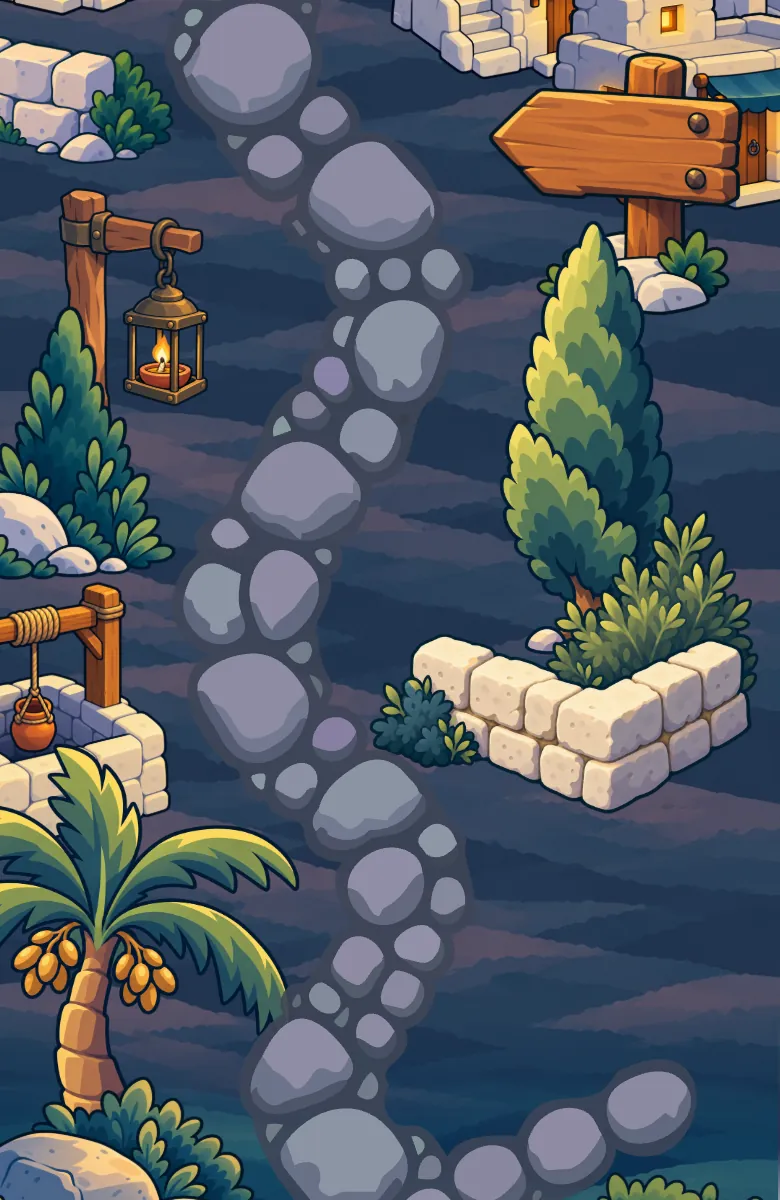
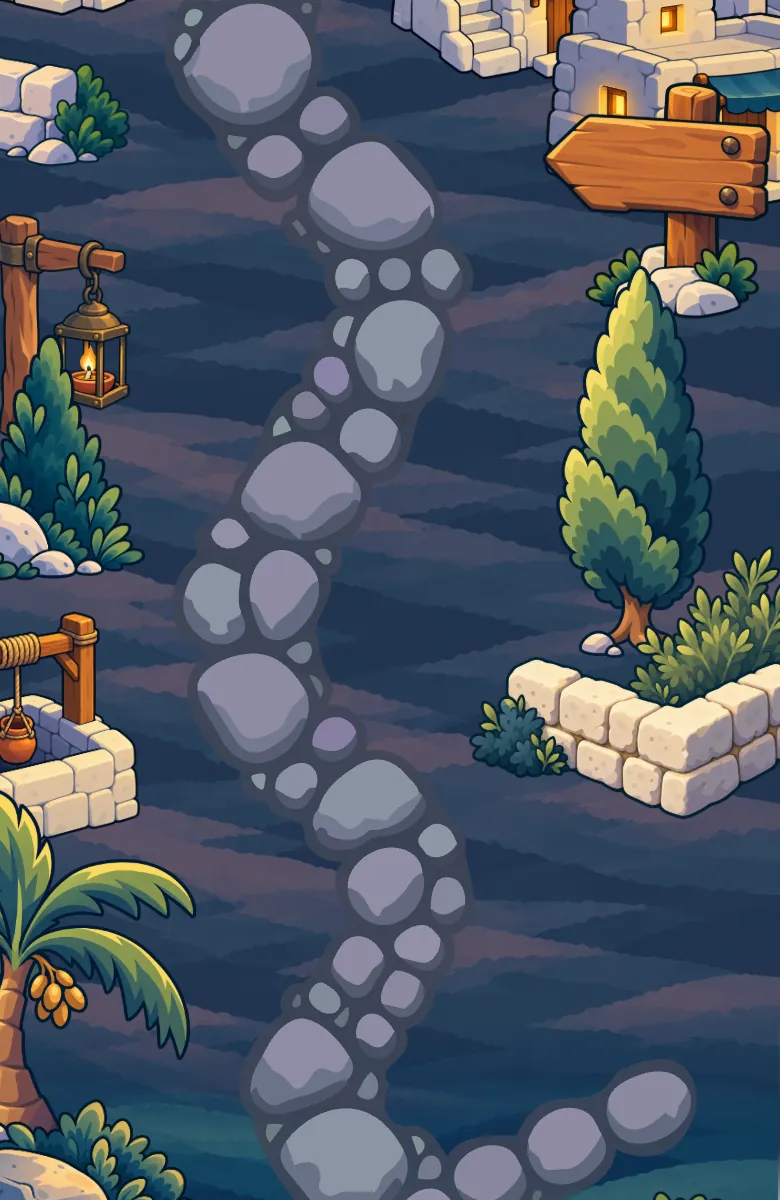
Mapa despejado, ruletas con candado e insignia, hoja que se toca y sello que se estampa
- Mapa: adornos de los lados un 10 % más chicos y apartados del sendero (losetas ?v=2)
- Ruletas: apagadas y con candado mientras no se pueden girar; ya giradas, insignia ✓ de vidrio sobre la rueda
- Hoja del día: con la hoja abierta se toca la fila de la actividad; el botón amarillo queda en la barra minimizada
- Juego sorpresa justo encima del botón principal
- Desafío: «Sacar otra carta» debajo de la carta y el sello «HECHO EN FAMILIA» se estampa
- Ícono de la música blanco en modo oscuro

diff --git a/public/js/map.js b/public/js/map.js
@@ -13,12 +13,13 @@ const FONDO = { claro: ['#67C7FC', '#94907F'], oscuro: ['#013880', '#607F77'] };
 const CENTRO = { 1: [142.1, 3094], 2: [224.9, 2984], 3: [151.3, 2874], 4: [220.3, 2764], 5: [142.1, 2654], 6: [197.3, 2544], 7: [218, 2434], 8: [137.5, 2329],
   9: [218, 2201], 10: [160.5, 2089], 11: [229.5, 1989], 12: [155.9, 1881], 13: [220.3, 1773], 14: [174.3, 1665], 15: [137.5, 1557], 16: [211.1, 1449],
   17: [151.3, 1341], 18: [229.5, 1233], 19: [160.5, 1125], 20: [215.7, 1017], 21: [142.1, 909], 22: [174.3, 801], 23: [206.5, 691], 24: [149, 581], 25: [218, 471], 26: [137.5, 351] };
-// ruletas de los días 4, 11, 18 y 24: dibujo, caja y etiqueta (centro y arriba) como en el Figma
+// ruletas de los días 4, 11, 18 y 24: dibujo, caja y etiqueta (centro y arriba). Al 90 % del Figma y ancladas hacia afuera,
+// lejos del sendero (los adornos del paisaje también se achicaron y apartaron)
 const RULETAS = [
-  { img: 'ruleta-pie', x: 256, y: 2507, w: 135, h: 189, lx: 322, ly: 2690 },
-  { img: 'ruleta-dibujada', x: 270, y: 1755, w: 119, h: 166, lx: 324.5, ly: 1915 },
-  { img: 'ruleta-pie', x: 265, y: 971, w: 135, h: 189, lx: 323.5, ly: 1160 },
-  { img: 'ruleta-dibujada', x: -8, y: 320, w: 119, h: 166, lx: 60.5, ly: 507 },
+  { img: 'ruleta-pie', x: 269.5, y: 2525.9, w: 121.5, h: 170.1, lx: 328.9, ly: 2690.6 },
+  { img: 'ruleta-dibujada', x: 281.9, y: 1771.6, w: 107.1, h: 149.4, lx: 330.9, ly: 1915.6 },
+  { img: 'ruleta-pie', x: 278.5, y: 989.9, w: 121.5, h: 170.1, lx: 331.1, ly: 1160.0 },
+  { img: 'ruleta-dibujada', x: -19.7, y: 336.6, w: 107.1, h: 149.4, lx: 41.9, ly: 504.9 },
 ];
 const CHECK = '<svg class="dz-check" width="30" height="30" viewBox="0 0 30 30" fill="none" aria-hidden="true"><path d="M6.25 15.625 11.875 21.25 23.75 9.375" stroke="#fff" stroke-width="4" stroke-linecap="round" stroke-linejoin="round"/></svg>';
 const ESTRELLA = 'M7.5 1.1875 9.4125 5.25 13.8125 5.7875 10.5625 8.83125 11.4188 13.225 7.5 11.0438 3.58125 13.225 4.4375 8.83125 1.1875 5.7875 5.5875 5.25Z';
@@ -28,7 +29,6 @@ const estrella = (llena, px) => `<svg width="${px}" height="${px}" viewBox="0 0 
 // solo los días con trivia llevan estrellas; vacías = la trivia sigue abierta
 const pildoraEstrellas = n => hasTrivia(n) ? `<span class="dz-estrellas">${[15, 17, 15].map((px, i) => estrella(i < stars(n), px)).join('')}</span>` : '';
 const DESTELLO = '<svg width="14" height="14" viewBox="0 0 14 14" aria-hidden="true"><path d="M7 .58 8.52 5.48 13.42 7 8.52 8.52 7 13.42 5.48 8.52.58 7 5.48 5.48Z" fill="#E9B949"/></svg>';
-const CHECK_VERDE = '<svg width="14" height="14" viewBox="0 0 14 14" fill="none" aria-hidden="true"><path d="M2.92 7.29 5.54 9.92 11.08 4.38" stroke="#7FD69B" stroke-width="1.98" stroke-linecap="round" stroke-linejoin="round"/></svg>';
 
 let tpl = null; // piezas sacadas de las plantillas, por tema
 let mapOrigin = null; // pantalla desde la que se entró al camino
@@ -129,7 +129,7 @@ register('mapa', {
     // al estirar el scroll se ve el color del borde, nunca negro
     scroller.style.background = `linear-gradient(${FONDO[tema][0]} 50%, ${FONDO[tema][1]} 50%)`;
     const yFoco = CENTRO[Math.max(focus, 1)][1];
-    root.innerHTML = Array.from({ length: 6 }, (_, i) => `<img class="dz-tira" src="assets/mapa/${dark() ? 'noche' : 'dia'}-${i}.webp" alt="" style="top:${i * 600}px" decoding="async"${Math.abs(i * 600 + 300 - yFoco) > 1000 ? ' loading="lazy"' : ''}>`).join('');
+    root.innerHTML = Array.from({ length: 6 }, (_, i) => `<img class="dz-tira" src="assets/mapa/${dark() ? 'noche' : 'dia'}-${i}.webp?v=2" alt="" style="top:${i * 600}px" decoding="async"${Math.abs(i * 600 + 300 - yFoco) > 1000 ? ' loading="lazy"' : ''}>`).join('');
     // la casa de abajo es donde sale el camino
     const casa = document.createElement('button'); casa.type = 'button'; casa.className = 'dz-casa'; casa.setAttribute('aria-label', 'Aquí empieza el camino');
     root.appendChild(casa);
@@ -206,9 +206,15 @@ register('mapa', {
       const f = dateOf(d), mes = f.mes.toLowerCase();
       const faltan = d - S.hoy;
       const label = opened ? '¡Ya la giraste!' : lista ? '¡Gírala!' : cerrada ? 'Cerrada' : falta ? `Termina el día ${d}` : S.hoy > 0 && d === proxima ? (faltan === 1 ? 'Mañana' : `Faltan ${faltan} días`) : `Día ${d}`;
-      const a = document.createElement('button'); a.type = 'button'; a.className = 'dz-ruleta';
+      const bloqueada = !opened && !lista; // aún no se puede girar: apagada y con candado, como los días cerrados
+      const a = document.createElement('button'); a.type = 'button'; a.className = 'dz-ruleta' + (bloqueada ? ' rul-bloq' : '');
       a.style.cssText = `left:${R.x}px;top:${R.y}px;width:${R.w}px;height:${R.h}px`;
-      a.innerHTML = `<img src="assets/mapa/${R.img}.webp" alt=""${lista ? ' class="rul-pulso"' : ''}><span class="dz-etiqueta" style="left:${R.lx - R.x}px;top:${R.ly - R.y}px">${opened ? CHECK_VERDE : DESTELLO}${label}</span>`;
+      const centro = R.img === 'ruleta-pie' ? 36 : 44; // centro de la rueda, en % del alto
+      a.innerHTML = `<img src="assets/mapa/${R.img}.webp" alt=""${lista ? ' class="rul-pulso"' : ''}${bloqueada ? ' style="opacity:.55;filter:saturate(.35)"' : ''}>`
+        + (bloqueada ? `<img class="rul-candado" src="assets/candado.webp" alt="" style="position:absolute;left:50%;top:${centro}%;width:34px;height:auto;transform:translate(-50%,-50%);pointer-events:none">` : '')
+        // ya girada: insignia de vidrio como la de los días hechos, en el borde de arriba de la rueda, del lado del sendero (nunca se corta con la pantalla)
+        + (opened ? `<span class="rul-hecha" aria-hidden="true" style="position:absolute;left:${R.x > 195 ? 18 : 82}%;top:${R.img === 'ruleta-pie' ? 13 : 21}%;width:40px;height:40px;box-sizing:border-box;transform:translate(-50%,-50%);border-radius:50%;background:linear-gradient(180deg,rgba(71,198,218,.95),rgba(11,116,138,.97));box-shadow:0 0 0 2.5px rgba(255,255,255,.96),0 6px 14px rgba(6,80,95,.38),inset 0 2px 3px rgba(255,255,255,.45),inset 0 -3px 5px rgba(6,80,95,.25);display:flex;align-items:center;justify-content:center;pointer-events:none"><svg width="20" height="20" viewBox="0 0 30 30" fill="none"><path d="M6.25 15.625 11.875 21.25 23.75 9.375" stroke="#FFFFFF" stroke-width="4.4" stroke-linecap="round" stroke-linejoin="round"/></svg></span>`
+          : `<span class="dz-etiqueta" style="left:${R.lx - R.x}px;top:${R.ly - R.y}px">${lista ? DESTELLO + label : label}</span>`);
       a.setAttribute('aria-label', opened ? `Ruleta de la semana ${i + 1}: ya la giraste` : lista ? `Ruleta de la semana ${i + 1}: ¡gírala!` : cerrada ? `Ruleta de la semana ${i + 1}: cerrada` : falta ? `Ruleta de la semana ${i + 1}: se abre al terminar el día ${d}` : `Ruleta de la semana ${i + 1}: se abre el ${f.dd} de ${mes}`);
       root.appendChild(a);
       on(root, a, () => {
@@ -402,7 +408,9 @@ function showPast(layer, n, el) {
   const C = contOf(d.type);
   const ic = iconOf(n, dark()); if (ic) r1.querySelector('img').src = A(ic);
   const [t1, s1] = r1.querySelector(':scope > div').children; t1.textContent = C[0]; s1.textContent = C[1];
-  on(layer, r1.querySelector('a'), () => go(usaHub(n) ? 'hub' : 'reproductor', { day: n, replay: true }, 'up'));
+  const verOtra = () => go(usaHub(n) ? 'hub' : 'reproductor', { day: n, replay: true }, 'up');
+  const a1 = r1.querySelector('a'); if (a1 && a1 !== r1) on(layer, a1, verOtra); else on(layer, r1, verOtra);
+  r1.style.cursor = 'pointer';
   const st = stars(n);
   const cta = [...sheet.children].find(x => x.tagName === 'A' && !isRow(x));
   if (!hasTrivia(n)) {
@@ -416,7 +424,9 @@ function showPast(layer, n, el) {
   r2.querySelector('[role=img]')?.setAttribute('aria-label', `${st} de 3 estrellas`);
   const s2 = r2.querySelector(':scope > div').children[1]; s2.textContent = st === 3 ? '¡Ya tienes las 3 estrellas!' : `+${RULES.panes.trivia} panes si mejoras tus estrellas`;
   on(layer, cta, () => go('trivia', { day: n, i: 0, ok: 0, replay: true }, 'push'));
+  r2.style.cursor = 'pointer'; r2.setAttribute('role', 'button'); r2.tabIndex = 0; on(layer, r2, () => go('trivia', { day: n, i: 0, ok: 0, replay: true }, 'push'));
   }
+  cta.classList.add('cta-mini'); // se toca la fila; el botón queda en la barra minimizada
   if (t1.textContent.trim() === head.children[1].textContent.trim()) t1.textContent = C[0] === d.title ? 'Actividad' : C[0];
   const pr = [...sheet.children].find(x => x.tagName === 'A' && isRow(x));
   if (pr) {
@@ -533,15 +543,18 @@ function paintSheet(layer, T, dia) {
   const ty = TYPES[d.type];
   const rowIcon = iconOf(n, dark()) ? A(iconOf(n, dark())) : n === 0 ? A(IMG.pergamino) : null;
   const list = [];
+  let filaSorpresa = null; // va al final, justo encima del botón principal
   const pago = !puedeDia(n) && !contentDone(n); // free en un día de pago: todo con candado y la hoja lleva al pago
-  list.push(build(!contentDone(n) && !pago, CONT[0], contentDone(n) ? CONT[1] : `${ty.min} min`, contentDone(n) ? 'ok' : pago ? 'lock' : 'now', rowIcon));
+  const filaCont = build(!contentDone(n) && !pago, CONT[0], contentDone(n) ? CONT[1] : `${ty.min} min`, contentDone(n) ? 'ok' : pago ? 'lock' : 'now', rowIcon);
+  list.push(filaCont);
+  let filaTriv = null;
   if (n !== 0 && n !== 26) {
     if (hasTrivia(n)) {
       const trivOn = contentDone(n) && !isDone(n);
-      list.push(build(trivOn, 'Trivia', isDone(n) ? 'Ya la jugaste' : contentDone(n) ? 'Gana hasta 3 estrellas' : `Después de ${CONT[2]}`.replace('de el ', 'del '), isDone(n) ? 'stars' : trivOn ? 'now' : 'lock', T.trivIcon));
+      list.push(filaTriv = build(trivOn, 'Trivia', isDone(n) ? 'Ya la jugaste' : contentDone(n) ? 'Gana hasta 3 estrellas' : `Después de ${CONT[2]}`.replace('de el ', 'del '), isDone(n) ? 'stars' : trivOn ? 'now' : 'lock', T.trivIcon));
     }
     const sorp = RULES.sorpresa[n];
-    if (sorp && isDone(n) && S.sorpresas[n] !== 'hecha') list.push(build(true, '¡Hoy hay juego sorpresa!', `Hoy toca ${SORPRESA_NOMBRE[sorp]}`, 'now', A(IMG.regalo)));
+    if (sorp && isDone(n) && S.sorpresas[n] !== 'hecha') filaSorpresa = (build(true, '¡Hoy hay juego sorpresa!', `Hoy toca ${SORPRESA_NOMBRE[sorp]}`, 'now', A(IMG.regalo)));
   }
   // imprimible del día (lienzo): una fila tocable
   if (n >= 1 && T.printRow) {
@@ -555,6 +568,7 @@ function paintSheet(layer, T, dia) {
     else on(layer, r, () => abrirDescargable(n, 'mapa'));
     list.push(r);
   }
+  if (filaSorpresa) list.push(filaSorpresa);
   list.forEach(r => cta.before(r));
   list.filter(r => r.dataset.lock).forEach(r => {
     r.style.cursor = 'pointer'; r.setAttribute('role', 'button');
@@ -569,6 +583,13 @@ function paintSheet(layer, T, dia) {
   const icon = cta.querySelector('svg');
   if (icon && !label.play) icon.style.display = 'none';
   on(layer, cta, label.go);
+  // la hoja abierta se usa tocando la actividad que se quiere hacer; el botón amarillo queda solo en la barra minimizada
+  const tocar = (r, fn) => { if (!r || r.dataset.lock) return; r.style.cursor = 'pointer'; r.setAttribute('role', 'button'); r.tabIndex = 0; on(layer, r, fn); };
+  tocar(filaCont, contentDone(n) ? () => go(usaHub(n) ? 'hub' : 'reproductor', { day: n, replay: true }, 'up') : () => startDay(n));
+  tocar(filaTriv, isDone(n) ? () => go('trivia', { day: n, i: 0, ok: 0, replay: true }, 'push') : () => startDay(n));
+  tocar(filaSorpresa, () => openSorpresa(n));
+  // sin actividad que tocar (día de pago con free, o todo hecho: «Seguir al día N», «Hasta mañana»), el botón se queda
+  if (!pago && (!contentDone(n) || (filaTriv && !isDone(n)) || filaSorpresa)) cta.classList.add('cta-mini');
   // trivias que quedaron pendientes al seguir con las historias: a un toque
   const trivAct = activeDay();
   const pendTriv = Array.from({ length: Math.min(lastDay(), 26) }, (_, i) => i + 1).filter(d => triviaPendiente(d) && d !== n);

diff --git a/public/app.css b/public/app.css
@@ -330,6 +330,8 @@ textarea.p-note::placeholder { color: var(--muted); opacity: .8; }
 [data-sheet].mini { height: auto !important; padding: 10px 12px 12px !important; gap: 0 !important; }
 [data-sheet].mini > *:not(.mini-bar):not(.sheet-min):not(.sheet-grab):not(.back-hoy) { display: none !important; }
 [data-sheet].mini > .sheet-grab { margin-bottom: 8px; }
+/* hoja abierta: se toca la actividad (la fila); el botón amarillo vive solo en la barra minimizada */
+[data-sheet]:not(.mini) > a.cta-mini { display: none !important; }
 [data-sheet].mini .mini-bar { display: flex; align-items: center; gap: 12px; align-self: stretch; padding-right: 52px; cursor: pointer; animation: mbIn .3s var(--ease-out) both; }
 @keyframes mbIn { from { opacity: 0; transform: translateY(6px); } }
 .mb-ico { position: relative; flex: none; width: 48px; height: 48px; border-radius: 15px; background: #E2F3F7; display: grid; place-items: center; }
@@ -400,6 +402,7 @@ textarea.p-note::placeholder { color: var(--muted); opacity: .8; }
 .layer[data-screen="mapa"] .map-chip { font-weight: 600 !important; }
 :root[data-theme="dark"] .layer[data-screen="mapa"] .map-head > a, :root[data-theme="dark"] .layer[data-screen="mapa"] .map-chip, :root[data-theme="dark"] .layer[data-screen="mapa"] .map-head button[aria-label^="Música"] { background: #274E7C !important; box-shadow: 0 2px 8px rgba(4,14,36,.22) !important; }
 :root[data-theme="dark"] .layer[data-screen="mapa"] .map-chip { color: #FFFFFF !important; }
+:root[data-theme="dark"] .layer[data-screen="mapa"] .map-head button[aria-label^="Música"], :root[data-theme="dark"] .layer[data-screen="mapa"] .map-head button[aria-label^="Música"] svg { color: #FFFFFF !important; } /* el ícono va en blanco sobre el azul (antes heredaba el negro) */
 :root[data-theme="dark"] .layer[data-screen="mapa"] .map-chip span:last-child { color: #FFF6DD !important; }
 
 /* botón de música de la cabecera: 40px de dibujo, 44px de área táctil */
@@ -451,6 +454,11 @@ textarea.p-note::placeholder { color: var(--muted); opacity: .8; }
 .dz-teo { position: absolute; z-index: 3; width: 108px; height: 104px; object-fit: contain; object-position: 50% 100%; pointer-events: none; filter: drop-shadow(0 6px 8px rgba(8,93,111,.25)); }
 .dz-ruleta { position: absolute; z-index: 1; padding: 0; border: 0; background: none; }
 .dz-ruleta > img { display: block; width: 100%; height: 100%; object-fit: cover; }
+/* ruleta que aún no se puede girar: apagada y con candado, como los días cerrados; al abrirse se nota el cambio */
+.dz-ruleta > img.rul-candado { filter: drop-shadow(0 2px 3px rgba(2,37,79,.25)); }
+.dz-ruleta:focus:not(:focus-visible) { outline: none; }
+.dz-ruleta:focus-visible { outline-offset: -4px; border-radius: 20px; }
+
 .dz-etiqueta { position: absolute; transform: translateX(-50%); height: 26px; padding: 0 10px; box-sizing: border-box; border-radius: 13px; background: rgba(39,78,124,.97); box-shadow: 0 4px 10px rgba(4,14,36,.26); display: flex; align-items: center; gap: 5px; color: #FFFFFF; font: 500 12px Fredoka, Mulish, sans-serif; white-space: nowrap; }
 .dz-que { position: absolute; z-index: 2; height: 34px; padding: 0 12px; box-sizing: border-box; border-radius: 17px; background: rgba(255,255,255,.95); box-shadow: 0 6px 14px rgba(0,8,43,.18); display: flex; align-items: center; gap: 6px; color: #0B748A; font: 500 13px Fredoka, Mulish, sans-serif; white-space: nowrap; pointer-events: none; }
 :root[data-theme="dark"] .dz-dia:not(.dz-hecho):not(.dz-trivia):not(.dz-hoy) { --relleno: linear-gradient(180deg, rgba(94,141,194,.45), rgba(27,59,102,.6)); --aro: linear-gradient(180deg, rgba(255,255,255,.8), rgba(255,255,255,.15) 55%, rgba(156,195,240,.45)); --sombra: 6,22,43; color: #FFFFFF; }

diff --git a/public/js/games.js b/public/js/games.js
@@ -594,9 +594,11 @@ register('desafio', {
     });
     const otra = find(root, 'Sacar otra carta');
     if (otra) {
-      otra.style.right = 'calc(50% + 4px)';
+      // «Sacar otra carta» pegado a la carta, para que se vea que el mazo tiene más; «Más tarde» queda solo abajo
       const luego = document.createElement('a'); luego.href = '#'; luego.setAttribute('style', otra.getAttribute('style'));
-      Object.assign(luego.style, { left: 'calc(50% + 4px)', right: '20px' }); luego.textContent = 'Más tarde';
+      Object.assign(luego.style, { left: '20px', right: '20px', top: '770px' }); luego.textContent = 'Más tarde';
+      Object.assign(otra.style, { left: '0', right: '0', width: 'fit-content', margin: '0 auto', padding: '0 18px', top: '650px', height: '42px' });
+      const hicimos = find(root, '¡Lo hicimos!'); if (hicimos) hicimos.style.top = '704px';
       otra.after(luego); on(root, luego, p.fromHub ? () => go('hub', { day: p.day }, 'back') : later(p.day));
     }
     on(root, '¡Lo hicimos!', (ev, el) => {
@@ -619,7 +621,14 @@ register('desafioFin', {
 
     setText(root, /^Como María, que fue de prisa a ayudar a Isabel\.?$/, d.sub + '.');
     const stamp = $$(root, '*').find(el => /HECHO EN/.test(el.textContent) && el.childElementCount <= 3 && el.style.borderRadius === '50%');
-    if (stamp) stamp.style.animation = 'popRot .6s .4s cubic-bezier(.2,.9,.3,1.4) both';
+    if (stamp && reduced()) stamp.style.animation = 'popRot .6s .4s cubic-bezier(.2,.9,.3,1.4) both';
+    else if (stamp) {
+      stamp.animate([{ scale: '2.6', opacity: 0 }, { scale: '2.6', opacity: 0, offset: .01 }, { scale: '.9', opacity: 1, offset: .72 }, { scale: '1.04', offset: .86 }, { scale: '1', opacity: 1 }],
+        { duration: 560, delay: 450, easing: 'cubic-bezier(.5,0,.75,0)', fill: 'backwards' });
+      const carta = stamp.parentElement;
+      carta?.animate([{ translate: '0 0' }, { translate: '0 4px' }, { translate: '0 -2px' }, { translate: '0 0' }], { duration: 240, delay: 450 + 400, easing: 'ease-out' });
+      setTimeout(() => navigator.vibrate?.(30), 850);
+    }
     $$(root, 'img').forEach(i => { i.addEventListener('error', () => { i.src = A(IMG.corona); }, { once: true }); if (i.complete && !i.naturalWidth) i.src = A(IMG.corona); });
     const cal = find(root, 'Califícanos'); if (cal) cal.style.display = 'none';
     const first = sorpresaHecha(p.day, layer);
